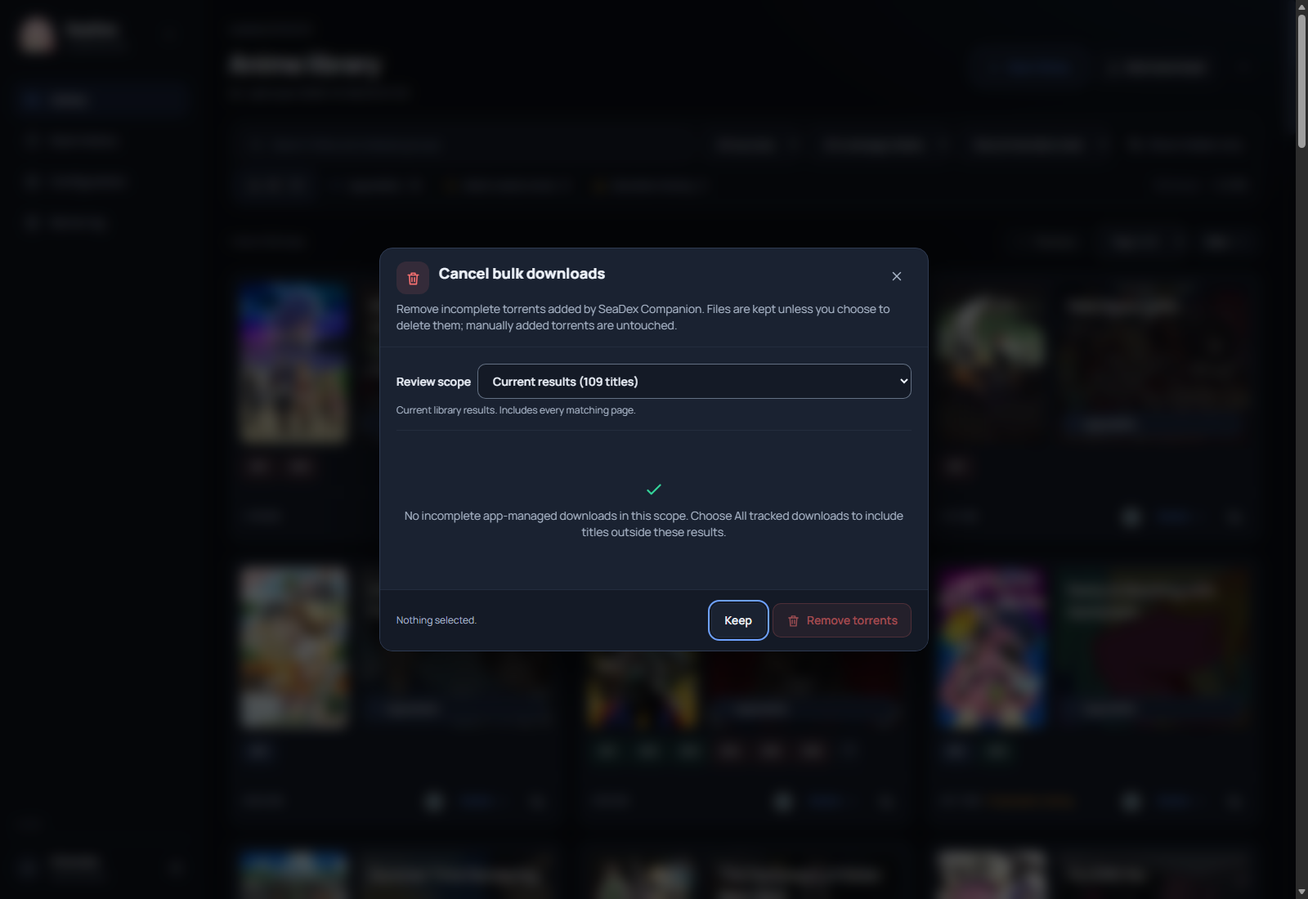
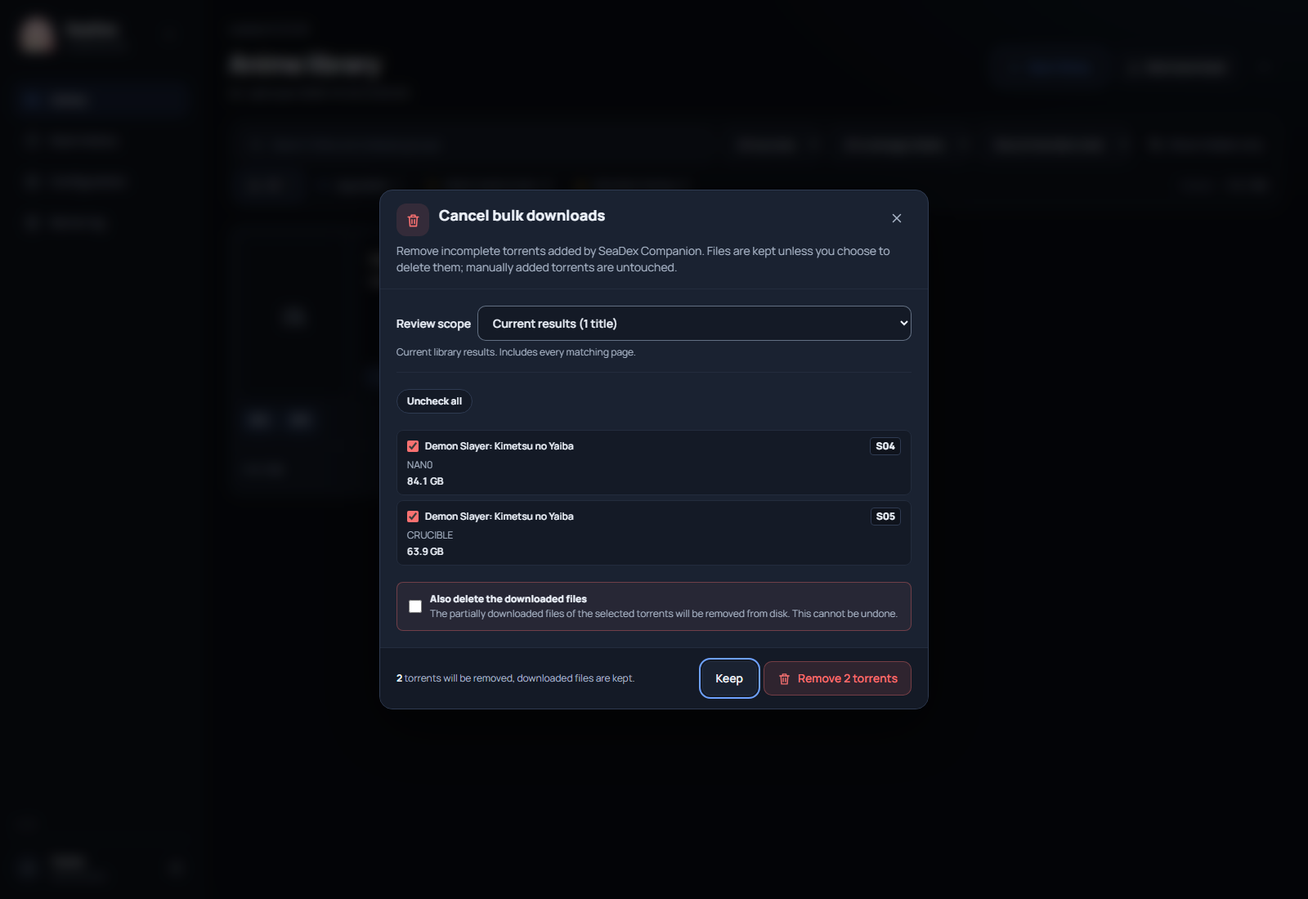
feat: align bulk operation reviews and release 1.9.0

diff --git a/frontend/src/components/BulkDownloadDialog.tsx b/frontend/src/components/BulkDownloadDialog.tsx
@@ -6,6 +6,7 @@ import Icon from './Icons'
 import * as api from '../api'
 import type { BulkDownloadTarget } from '../api'
 import Modal from './Modal'
+import { bulkDialog } from './bulk-dialog-styles'
 import { releaseIdentity } from '../../../shared/releases'
 import { estimateDownloads, type DownloadPreflight } from '../../../shared/download-estimate'
 
@@ -89,11 +90,11 @@ function hiddenKey(result: ResultItem): string {
 
 function ReleaseSummary({ release }: { release: Release }) {
   const tags = [...new Set([release.quality, ...(release.dual_audio ? ['Dual Audio'] : []), ...(release.tags || [])].filter(Boolean))]
-  return <span className="block min-w-0 text-xs text-muted wrap-anywhere"><strong className="font-semibold text-ink">{release.releaseGroup}</strong> · {release.tracker}{tags.length > 0 && ` · ${tags.join(' · ')}`}</span>
+  return <span className="block min-w-0 text-xs text-ink/75 wrap-anywhere"><strong className="font-semibold text-ink">{release.releaseGroup}</strong> · {release.tracker}{tags.length > 0 && ` · ${tags.join(' · ')}`}</span>
 }
 
 function OutcomeLabel({ status }: { status: 'success' | 'failure' | 'pending' | null }) {
-  return status ? <span className="basis-full text-xs font-semibold">{status === 'success' ? 'Added to qBittorrent' : status === 'failure' ? 'Could not be added — review the operation error details' : 'Waiting for qBittorrent'}</span> : null
+  return status ? <span className={cx('basis-full text-xs font-semibold', status === 'success' ? 'text-good' : status === 'failure' ? 'text-bad' : 'text-accent-bright')}>{status === 'success' ? 'Added to qBittorrent' : status === 'failure' ? 'Could not be added — review the operation error details' : 'Waiting for qBittorrent'}</span> : null
 }
 
 export default function BulkDownloadDialog({ open, results, scopeControl, hiddenKeys, busy, outcome, onConfirm, onClose }: Props) {
@@ -150,8 +151,10 @@ export default function BulkDownloadDialog({ open, results, scopeControl, hidden
   const checking = !currentPreflight && !checkError && !outcome
   const estimate = currentPreflight || estimateDownloads(selectedOptions.map(option => ({ release: option.release, category: '' })))
   const lowSpace = currentPreflight?.disk_space.some(check => check.sufficient === false)
+  const unverifiedSpace = Boolean(checkError || estimate.unknown_torrents || estimate.approximate_torrents || (currentPreflight && estimate.new_torrents > 0 && (!currentPreflight.disk_space.length || currentPreflight.disk_space.some(check => check.sufficient !== true))))
+  const diskTone = checking ? 'border-accent/35 bg-accent/6' : lowSpace ? 'border-bad/45 bg-bad/6' : unverifiedSpace ? 'border-warn/40 bg-warn/6' : estimate.new_torrents > 0 ? 'border-good/35 bg-good/6' : 'border-line bg-canvas-soft'
+  const diskTextTone = checking ? 'text-accent-bright' : lowSpace ? 'text-bad' : unverifiedSpace ? 'text-warn' : estimate.new_torrents > 0 ? 'text-good' : 'text-muted'
   const sizeText = estimate.unknown_torrents ? `${formatBytes(estimate.new_bytes) || '0 B'} + unknown` : estimate.new_bytes === 0 ? '0 B' : `${estimate.approximate_torrents ? '≈ ' : ''}${formatBytes(estimate.new_bytes)}`
-  const automaticCount = review.ready.filter((group) => group.options.length === 1 && !hiddenKeys.has(hiddenKey(group.result))).length
   const pendingChoices = review.choices.filter((group) => enabled[group.id] !== false && selected[group.id] === undefined).length
   const blockedSorted = [...review.blocked].sort((a, b) =>
     a.result.title.localeCompare(b.result.title, undefined, { sensitivity: 'base' }) ||
@@ -184,17 +187,17 @@ export default function BulkDownloadDialog({ open, results, scopeControl, hidden
 
   return (
     <Modal open={open} labelledBy="bulk-download-title" onClose={onClose}>
-      <section className="flex max-h-full w-full max-w-3xl flex-col overflow-hidden rounded-2xl border border-line-strong bg-panel-raised shadow-[0_24px_70px_rgba(0,0,0,.55)]" aria-busy={busy}>
-        <header className="bulk-download-header flex shrink-0 items-start gap-3 border-b border-line px-5 py-4">
+      <section className={cx(bulkDialog.shell, 'max-w-3xl')} aria-busy={busy}>
+        <header className={bulkDialog.header}>
           <span className="grid size-10 shrink-0 place-items-center rounded-xl bg-good/12 text-good"><Icon name="download" size={19}/></span>
           <div className="min-w-0 flex-1">
             <h2 id="bulk-download-title" className="m-0 text-lg font-extrabold">Review bulk downloads</h2>
-            <p className="mt-1 mb-0 text-sm text-muted">{outcome?.inflight ? 'Sending your fixed selection to qBittorrent. Closing this review keeps the batch running in the background.' : outcome ? 'Review the submitted selection and each outcome below. Operation Center shows the batch results and any error details.' : 'Choose a best release for each season or cour you want to upgrade.'}</p>
           </div>
-          <button type="button" className="grid touch-target size-9 cursor-pointer place-items-center rounded-lg text-muted hover:bg-panel hover:text-ink" onClick={onClose} aria-label={busy ? 'Continue batch in background' : 'Close'}><Icon name="close" size={18}/></button>
+          <button type="button" className={bulkDialog.closeButton} onClick={onClose} aria-label={busy ? 'Continue batch in background' : 'Close'}><Icon name="close" size={18}/></button>
+          <p className="m-0 basis-full text-sm text-muted">{outcome?.inflight ? 'Sending your fixed selection to qBittorrent. Closing this review keeps the batch running in the background.' : outcome ? 'Review the submitted selection and each outcome below. Operation Center shows the batch results and any error details.' : 'Choose a best release for each season or cour you want to upgrade.'}</p>
         </header>
 
-        <div className="app-scrollbar min-h-0 flex-1 space-y-4 overflow-y-auto p-5 max-[600px]:p-4">
+        <div className={bulkDialog.body}>
           {scopeControl}
           <div className="flex flex-wrap gap-2 text-xs font-bold">
             <button type="button" className={cx('touch-target cursor-pointer rounded-full border px-3 py-1.5 transition-colors', view === 'ready' ? 'border-good/60 bg-good/25 text-ink' : 'border-good/30 bg-good/10 text-ink hover:bg-good/18')} onClick={() => setView('ready')} aria-pressed={view === 'ready'}>{review.ready.length} eligible</button>
@@ -204,10 +207,6 @@ export default function BulkDownloadDialog({ open, results, scopeControl, hidden
 
           {view === 'ready' && (
             <section>
-              <h3 className="mb-2 text-sm font-bold text-ink">Eligible upgrades</h3>
-              {!outcome && <p className="mb-3 text-xs text-muted" role="status">{selections.length} ready to send{pendingChoices > 0 && ` · ${pendingChoices} need a release choice`}. Each selection covers a movie, season, or cour.</p>}
-              {!outcome && <details className="mb-3 text-xs text-muted"><summary className="touch-target w-fit cursor-pointer font-semibold text-accent-bright">How to choose between best releases</summary><p className="mt-2 mb-0 leading-relaxed">SeaDex marks these releases as best. Options may differ in release group, source, or audio. Compare their tags and notes; file size alone does not explain the recommendation.</p></details>}
-              {!outcome && automaticCount > 0 && <p className="m-0 mb-3 text-xs text-muted"><Icon name="check" size={14} className="mr-1.5 inline text-good"/>{automaticCount} selection{automaticCount === 1 ? '' : 's'} with a single public best option selected automatically.</p>}
               {readySorted.length ? (
                 <div className="space-y-1.5">
                   {readySorted.map((group) => {
@@ -220,19 +219,19 @@ export default function BulkDownloadDialog({ open, results, scopeControl, hidden
                       const delta = release.size && localSize ? release.size - localSize : null
                       const status = groupStatus(group)
                       return (
-                        <label key={group.id} className={cx('flex min-h-11 flex-wrap items-center gap-x-2 gap-y-1 rounded-lg border px-3 py-2 text-xs transition-colors', locked ? 'cursor-default' : 'cursor-pointer', status === 'success' && 'border-good/50 bg-good/8', status === 'failure' && 'border-bad/50 bg-bad/8', status === 'pending' && 'border-accent/45 bg-accent/8', !status && (enabled[group.id] !== false ? 'border-line bg-panel hover:border-line-strong' : 'border-line/60 bg-canvas-soft text-muted'))}>
-                          <input type="checkbox" disabled={locked} className="size-3.5 shrink-0 accent-accent" checked={enabled[group.id] !== false} onChange={(event) => setEnabled((current) => ({ ...current, [group.id]: event.target.checked }))} />
+                        <label key={group.id} className={cx(bulkDialog.row, locked ? 'cursor-default' : 'cursor-pointer', status === 'success' && 'border-good/50 bg-good/8', status === 'failure' && 'border-bad/50 bg-bad/8', status === 'pending' && 'border-accent/45 bg-accent/8', !status && (enabled[group.id] !== false ? bulkDialog.rowSelected : bulkDialog.rowUnchecked))}>
+                          <input type="checkbox" disabled={locked} className="size-3.5 shrink-0 accent-good" checked={enabled[group.id] !== false} onChange={(event) => setEnabled((current) => ({ ...current, [group.id]: event.target.checked }))} />
                           {status === 'success' && <Icon name="check" size={13} className="text-good"/>}
                           {status === 'failure' && <Icon name="alert" size={13} className="text-bad"/>}
                           {status === 'pending' && <span className="size-3 shrink-0 animate-spin rounded-full border-2 border-accent/30 border-t-accent"/>}
                           <span className={cx('font-semibold', status === 'success' ? 'text-good' : status === 'failure' ? 'text-bad' : status === 'pending' ? 'text-accent-bright' : 'text-ink')}>{group.result.title}</span>
-                          <span className="rounded border border-line-strong bg-canvas-soft px-1.5 py-0.5 text-xs font-extrabold text-ink">{seasonLabel(group.result)}{group.part ? ` · ${group.part}` : ''}</span>
+                          <span className={bulkDialog.seasonBadge}>{seasonLabel(group.result)}{group.part ? ` · ${group.part}` : ''}</span>
                           {isHidden && <span className="inline-flex items-center gap-1 rounded-full border border-warn/40 bg-warn/10 px-2 py-0.5 text-xs font-extrabold text-warn"><Icon name="eye-off" size={12}/>Hidden</span>}
                           <span className="ml-auto flex items-center gap-1.5 tabular-nums" title={`${release.releaseGroup} · ${release.tracker}`}>
-                            <span className="text-muted" title="Current local size">{formatBytes(localSize) || '—'}</span>
-                            <span className="text-muted-dim">→</span>
+                            <span className="text-ink/70" title="Current local size">{formatBytes(localSize) || '—'}</span>
+                            <span className="text-ink/60">→</span>
                             <span className="font-bold text-ink" title="Selected best release size">{formatBytes(release.size) || 'Unknown'}</span>
-                            {delta !== null && delta !== 0 && <span className="text-muted-dim">({delta > 0 ? '+' : '−'}{formatBytes(Math.abs(delta))})</span>}
+                            {delta !== null && delta !== 0 && <span className="text-ink/60">({delta > 0 ? '+' : '−'}{formatBytes(Math.abs(delta))})</span>}
                           </span>
                           <span className="basis-full"><ReleaseSummary release={release}/></span>
                           <OutcomeLabel status={status}/>
@@ -248,18 +247,18 @@ export default function BulkDownloadDialog({ open, results, scopeControl, hidden
                     const localSize = group.part ? (group.result.local_size_by_part?.[group.part] || 0) : group.result.local_size
                     const status = groupStatus(group)
                     return (
-                      <div key={group.id} className={cx('overflow-hidden rounded-lg border transition-colors', status === 'success' ? 'border-good/50 bg-good/8' : status === 'failure' ? 'border-bad/50 bg-bad/8' : status === 'pending' ? 'border-accent/45 bg-accent/8' : isPending ? 'border-warn/55 bg-warn/8' : 'border-line bg-panel')}>
+                      <div key={group.id} className={cx('overflow-hidden rounded-lg border transition-colors', status === 'success' ? 'border-good/50 bg-good/8' : status === 'failure' ? 'border-bad/50 bg-bad/8' : status === 'pending' ? 'border-accent/45 bg-accent/8' : isPending ? 'border-warn/55 bg-warn/8' : enabled[group.id] !== false ? bulkDialog.rowSelected : bulkDialog.rowUnchecked)}>
                         <div className="flex items-center gap-2 px-3 py-2">
-                          <label className="touch-target grid size-8 shrink-0 cursor-pointer place-items-center rounded-lg hover:bg-panel-raised"><input type="checkbox" disabled={locked} className="size-4 accent-accent" checked={enabled[group.id] !== false} onChange={(event) => setEnabled((current) => ({ ...current, [group.id]: event.target.checked }))} aria-label={`Include ${group.result.title} · ${seasonLabel(group.result)}${group.part ? ` · ${group.part}` : ''}`} /></label>
+                          <label className="touch-target grid size-8 shrink-0 cursor-pointer place-items-center rounded-lg hover:bg-panel-raised"><input type="checkbox" disabled={locked} className="size-4 accent-good" checked={enabled[group.id] !== false} onChange={(event) => setEnabled((current) => ({ ...current, [group.id]: event.target.checked }))} aria-label={`Include ${group.result.title} · ${seasonLabel(group.result)}${group.part ? ` · ${group.part}` : ''}`} /></label>
                           <button type="button" className="flex min-h-11 min-w-0 flex-1 cursor-pointer flex-wrap items-center gap-x-2 gap-y-1 text-left text-xs" onClick={() => setExpanded((current) => ({ ...current, [group.id]: !isExpanded }))} aria-expanded={isExpanded}>
                             {status === 'success' && <Icon name="check" size={13} className="text-good"/>}
                             {status === 'failure' && <Icon name="alert" size={13} className="text-bad"/>}
                             {status === 'pending' && <span className="size-3 shrink-0 animate-spin rounded-full border-2 border-accent/30 border-t-accent"/>}
                             <span className={cx('font-semibold', status === 'success' ? 'text-good' : status === 'failure' ? 'text-bad' : status === 'pending' ? 'text-accent-bright' : 'text-ink')}>{group.result.title}</span>
-                            <span className="rounded border border-line-strong bg-canvas-soft px-1.5 py-0.5 text-xs font-extrabold text-ink">{seasonLabel(group.result)}{group.part ? ` · ${group.part}` : ''}</span>
+                            <span className={bulkDialog.seasonBadge}>{seasonLabel(group.result)}{group.part ? ` · ${group.part}` : ''}</span>
                             {isHidden && <span className="inline-flex items-center gap-1 rounded-full border border-warn/40 bg-warn/10 px-2 py-0.5 text-xs font-extrabold text-warn"><Icon name="eye-off" size={12}/>Hidden</span>}
                             {chosen ? (
-                              <span className="inline-flex items-center gap-1 rounded-full border border-good/40 bg-good/10 px-2 py-0.5 text-xs font-extrabold text-good"><Icon name="check" size={12}/>Selected</span>
+                              <span className="inline-flex items-center gap-1 rounded-full border border-accent/40 bg-accent/10 px-2 py-0.5 text-xs font-extrabold text-accent-bright"><Icon name="check" size={12}/>Selected</span>
                             ) : (
                               <span className={cx('inline-flex items-center gap-1 rounded-full border px-2 py-0.5 text-xs font-extrabold', enabled[group.id] !== false ? 'border-warn/45 bg-warn/15 text-warn' : 'border-line-strong bg-canvas-soft text-muted')}><Icon name="alert" size={12}/>Choose 1 of {group.options.length}</span>
                             )}
@@ -268,7 +267,7 @@ export default function BulkDownloadDialog({ open, results, scopeControl, hidden
                             <span className="ml-auto flex items-center gap-1.5">
                               {chosenOption && (
                                 <span className="flex items-center gap-1.5 tabular-nums" title={`${chosenOption.release.releaseGroup} · ${chosenOption.release.tracker}`}>
-                                  {localSize ? <><span className="text-muted" title="Current local size">{formatBytes(localSize) || '—'}</span><span className="text-muted-dim">→</span></> : null}
+                                  {localSize ? <><span className="text-ink/70" title="Current local size">{formatBytes(localSize) || '—'}</span><span className="text-ink/60">→</span></> : null}
                                   <span className="font-bold text-ink">{formatBytes(chosenOption.release.size) || 'Unknown'}</span>
                                 </span>
                               )}
@@ -292,7 +291,7 @@ export default function BulkDownloadDialog({ open, results, scopeControl, hidden
                                 )
                               })}
                             </div>
-                            <div className="mt-2.5 whitespace-pre-line break-words text-xs leading-relaxed text-muted"><span className="font-bold text-ink">Note:</span> {group.result.notes_by_part?.[group.part] || (group.result.notes && group.result.notes !== '-' ? group.result.notes : 'No release note provided.')}</div>
+                            <div className="mt-2.5 whitespace-pre-line break-words text-xs leading-relaxed text-ink/75"><span className="font-bold text-ink">Note:</span> {group.result.notes_by_part?.[group.part] || (group.result.notes && group.result.notes !== '-' ? group.result.notes : 'No release note provided.')}</div>
                           </div>
                         )}
                       </div>
@@ -305,26 +304,31 @@ export default function BulkDownloadDialog({ open, results, scopeControl, hidden
 
           {view === 'ready' && review.ready.length > 0 && <>
             <dl className="m-0 grid grid-cols-2 gap-x-4 gap-y-2 border-y border-line py-3 sm:grid-cols-5">
-              <div><dt className="text-xs text-muted">Selected releases</dt><dd className="m-0 text-sm font-bold tabular-nums">{selections.length}</dd></div>
+              <div><dt className="text-xs text-muted">Selected releases</dt><dd className="m-0 text-sm font-bold text-accent-bright tabular-nums">{selections.length}</dd></div>
               <div><dt className="text-xs text-muted">New torrents</dt><dd className="m-0 text-sm font-bold tabular-nums">{estimate.new_torrents}</dd></div>
-              <div><dt className="text-xs text-muted">New download size</dt><dd className="m-0 text-sm font-bold tabular-nums" data-testid="bulk-download-size">{checking ? 'Checking…' : sizeText}</dd></div>
+              <div><dt className="text-xs text-muted">New download size</dt><dd className={cx('m-0 text-sm font-bold tabular-nums', estimate.unknown_torrents ? 'text-warn' : 'text-accent-bright')} data-testid="bulk-download-size">{checking ? 'Checking…' : sizeText}</dd></div>
               <div><dt className="text-xs text-muted">File scope</dt><dd className="m-0 text-sm font-bold tabular-nums">{estimate.selected_file_count > 0 ? `${estimate.selected_file_count} file${estimate.selected_file_count === 1 ? '' : 's'}${estimate.whole_torrents ? ` + ${estimate.whole_torrents} whole` : ''}` : `${estimate.whole_torrents} whole torrent${estimate.whole_torrents === 1 ? '' : 's'}`}</dd></div>
               <div className="col-span-2 flex items-baseline gap-2 sm:col-span-1 sm:block"><dt className="text-xs text-muted">Already in qBittorrent</dt><dd className={cx('m-0 text-sm font-bold tabular-nums', checkError ? 'text-warn' : 'text-ink')}>{checking || checkError ? 'Unknown' : estimate.existing_torrents}</dd></div>
             </dl>
-            {!outcome && <section ref={diskRef} className="space-y-2 rounded-xl border border-line bg-canvas-soft p-3 text-xs" aria-label="Download disk space" aria-live="polite">
-              <h3 className="m-0 text-xs font-bold">Disk space</h3>
-              {checking && <p className="m-0 text-muted">Checking qBittorrent download paths and existing torrents…</p>}
+            {!outcome && <section ref={diskRef} className={cx('space-y-2 rounded-xl border p-3 text-xs transition-colors', diskTone)} aria-label="Download disk space" aria-live="polite">
+              <div className="flex flex-wrap items-center justify-between gap-2">
+                <h3 className="m-0 text-xs font-bold">Disk space</h3>
+                <span className={cx('inline-flex items-center gap-1.5 font-semibold', diskTextTone)}>
+                  {checking ? <span className="size-3 animate-spin rounded-full border-2 border-accent/30 border-t-accent"/> : <Icon name={lowSpace || unverifiedSpace ? 'alert' : 'check'} size={13}/>}
+                  {checking ? 'Checking…' : lowSpace ? 'Low space' : unverifiedSpace ? 'Unverified' : estimate.new_torrents > 0 ? 'Space available' : 'No new torrents'}
+                </span>
+              </div>
+              {checking && <p className="m-0 text-ink/80">Checking qBittorrent download paths and existing torrents…</p>}
               {checkError && <p className="m-0 text-warn">Check unavailable: {checkError}. Existing torrents and available space could not be verified.</p>}
-              {currentPreflight?.disk_space.map((check, index) => <div key={index} className={cx('break-words', check.sufficient === false ? 'text-bad' : check.sufficient === true ? 'text-muted' : 'text-warn')}>
+              {currentPreflight?.disk_space.map((check, index) => <div key={index} className={cx('break-words', check.sufficient === false ? 'text-bad' : check.sufficient === true ? 'text-ink/80' : 'text-warn')}>
                 <span className="font-bold">{check.path || 'Download path unavailable'}</span>: {check.free_bytes === null ? 'Free space unavailable' : `${formatBytes(check.free_bytes) || '0 B'} free`} · {formatBytes(check.required_bytes) || '0 B'} needed{check.unknown_torrents ? ' + unverified sizes' : ''}
                 {check.sufficient === false && <span className="block font-bold">Not enough space for these downloads.</span>}
                 {check.reason && <span className="block">{check.reason}</span>}
               </div>)}
               {currentPreflight && !estimate.new_torrents && <p className="m-0 text-muted">No new torrents to add. Existing torrents are kept unchanged.</p>}
               {(estimate.unknown_torrents > 0 || estimate.approximate_torrents > 0) && <p className="m-0 text-warn">Some saved releases lack file sizes. Run a new scan for a more accurate estimate.</p>}
-              <details className="text-muted"><summary className="min-h-6 cursor-pointer font-bold text-ink">Estimate details and limitations</summary><p className="mt-2 mb-0 leading-relaxed">Shared torrents and files are counted once. Existing torrents are skipped. Space is a snapshot; other downloads, torrent overhead, and library imports may need additional room.</p></details>
               <button type="button" className="touch-target cursor-pointer rounded-lg px-2 py-1 font-bold text-accent-bright hover:bg-accent/10 disabled:opacity-50" disabled={checking || busy} onClick={() => setRetry(current => current + 1)}>Refresh check</button>
-              {lowSpace && <label className="flex min-h-11 cursor-pointer items-center gap-2 rounded-lg border border-warn/30 bg-warn/8 p-3 text-warn"><input type="checkbox" checked={acceptSpaceWarning} onChange={event => setAcceptSpaceWarning(event.target.checked)}/>Continue despite the disk space warning</label>}
+              {lowSpace && <label className="flex min-h-11 cursor-pointer items-center gap-2 rounded-lg border border-warn/40 bg-warn/8 p-3 text-warn"><input type="checkbox" className="size-4 shrink-0 accent-warn" checked={acceptSpaceWarning} onChange={event => setAcceptSpaceWarning(event.target.checked)}/>Continue despite the disk space warning</label>}
             </section>}
           </>}
           {view === 'unavailable' && (
@@ -347,18 +351,18 @@ export default function BulkDownloadDialog({ open, results, scopeControl, hidden
           )}
         </div>
 
-        <footer className="bulk-download-footer flex flex-wrap items-center justify-between gap-3 border-t border-line bg-panel px-5 py-4">
+        <footer className={bulkDialog.footer}>
           <span className="flex flex-wrap items-center gap-x-2 gap-y-1 text-xs text-muted">
             {!outcome && pendingChoices > 0 && <span className="inline-flex items-center gap-1 font-bold text-warn"><Icon name="alert" size={13}/>Resolve {pendingChoices} release choice{pendingChoices === 1 ? '' : 's'} first</span>}
             {!outcome && lowSpace && !acceptSpaceWarning && <button type="button" className="touch-target cursor-pointer rounded-lg px-2 py-1 font-bold text-warn underline hover:bg-warn/10" onClick={() => diskRef.current?.querySelector<HTMLInputElement>('input[type="checkbox"]')?.focus()}>Review disk space warning</button>}
           </span>
-          <div className="ml-auto flex min-w-0 max-w-full flex-wrap justify-end gap-2 [&_button]:max-w-full [&_button]:justify-center [&_button]:wrap-anywhere max-[600px]:[&_button]:px-3">
+          <div className={bulkDialog.footerActions}>
             {outcome?.inflight ? (
               <div className="flex min-w-0 max-w-full flex-wrap items-center gap-2"><span className="text-xs text-muted" role="status">Sending… {inflightProgress ? `${inflightProgress.settled}/${inflightProgress.total} torrents` : ''}</span><button type="button" className={cx(buttonBase, 'border-accent/35 bg-accent/12 text-accent-bright')} onClick={onClose}>Continue in background</button></div>
             ) : (
               <>
-                <button ref={cancelRef} type="button" className={cx(buttonBase, 'border-line bg-panel-raised text-ink hover:text-ink')} onClick={onClose} disabled={busy}>{outcome ? 'Close' : 'Cancel'}</button>
-                {!outcome && <button type="button" className={cx(buttonBase, 'border-good/35 bg-good/12 text-good hover:bg-good/20')} onClick={() => onConfirm(selections)} disabled={busy || checking || selections.length === 0 || pendingChoices > 0 || estimate.new_torrents === 0 || Boolean(lowSpace && !acceptSpaceWarning)}>{busy ? <span className="size-4 animate-spin rounded-full border-2 border-good/35 border-t-good"/> : <Icon name="download" size={17}/>}Download {estimate.new_torrents} torrent{estimate.new_torrents === 1 ? '' : 's'}</button>}
+                <button ref={cancelRef} type="button" className={bulkDialog.neutralButton} onClick={onClose} disabled={busy}>{outcome ? 'Close' : 'Cancel'}</button>
+                {!outcome && <button type="button" className={bulkDialog.downloadButton} onClick={() => onConfirm(selections)} disabled={busy || checking || selections.length === 0 || pendingChoices > 0 || estimate.new_torrents === 0 || Boolean(lowSpace && !acceptSpaceWarning)}>{busy ? <span className="size-4 animate-spin rounded-full border-2 border-good/35 border-t-good"/> : <Icon name="download" size={17}/>}Download {estimate.new_torrents} torrent{estimate.new_torrents === 1 ? '' : 's'}</button>}
               </>
             )}
           </div>

diff --git a/frontend/src/components/BulkCancelDialog.tsx b/frontend/src/components/BulkCancelDialog.tsx
@@ -1,9 +1,10 @@
 import { ReactNode, useEffect, useRef, useState } from 'react'
 import { formatBytes } from '../utils'
-import { buttonBase, cx } from '../styles'
+import { cx } from '../styles'
 import Icon from './Icons'
 import { getCancelableBulkDownloads, BulkDownloadTarget, CancelableDownload } from '../api'
 import Modal from './Modal'
+import { bulkDialog } from './bulk-dialog-styles'
 
 interface Props {
   open: boolean
@@ -58,17 +59,17 @@ export default function BulkCancelDialog({ open, busy, scopeControl, resultKeys,
 
   return (
     <Modal open={open} labelledBy="bulk-cancel-title" busy={busy} onClose={onClose}>
-      <section className="flex max-h-full w-full max-w-2xl flex-col overflow-hidden rounded-2xl border border-line-strong bg-panel-raised shadow-[0_24px_70px_rgba(0,0,0,.55)]" aria-busy={busy || loading}>
-        <header className="flex flex-wrap items-start gap-x-3 gap-y-2 border-b border-line px-5 py-4">
+      <section className={cx(bulkDialog.shell, 'max-w-2xl')} aria-busy={busy || loading}>
+        <header className={bulkDialog.header}>
           <span className="grid size-10 shrink-0 place-items-center rounded-xl bg-bad/12 text-bad"><Icon name="trash" size={19}/></span>
           <div className="min-w-0 flex-1">
             <h2 id="bulk-cancel-title" className="m-0 text-lg font-extrabold">Cancel bulk downloads</h2>
           </div>
-          <button type="button" className="grid touch-target size-9 cursor-pointer place-items-center rounded-lg text-muted hover:bg-panel hover:text-ink" onClick={onClose} disabled={busy} aria-label="Close"><Icon name="close" size={18}/></button>
+          <button type="button" className={bulkDialog.closeButton} onClick={onClose} disabled={busy} aria-label="Close"><Icon name="close" size={18}/></button>
           <p className="m-0 basis-full text-sm text-muted">Remove incomplete torrents added by SeaDex Companion. Files are kept unless you choose to delete them; manually added torrents are untouched.</p>
         </header>
 
-        <div className="app-scrollbar min-h-0 flex-1 space-y-5 overflow-y-auto p-5">
+        <div className={bulkDialog.body}>
           {scopeControl}
           {loading ? (
             <div className="flex items-center justify-center gap-2 py-10 text-sm text-muted"><span className="size-4 animate-spin rounded-full border-2 border-bad/35 border-t-bad"/>Loading active downloads…</div>
@@ -83,10 +84,10 @@ export default function BulkCancelDialog({ open, busy, scopeControl, resultKeys,
                 {downloads.map((item) => {
                   const id = `${item.key}\0${item.release}`
                   return (
-                    <label key={id} className={cx('flex min-h-11 cursor-pointer flex-wrap items-center gap-x-2 gap-y-1 rounded-lg border px-3 py-2 text-xs transition-colors', enabled[id] !== false ? 'border-line bg-panel hover:border-line-strong' : 'border-line/60 bg-canvas-soft text-muted')}>
+                    <label key={id} className={cx(bulkDialog.row, 'cursor-pointer', enabled[id] !== false ? bulkDialog.rowSelected : bulkDialog.rowUnchecked)}>
                       <input type="checkbox" disabled={busy} className="size-3.5 shrink-0 accent-bad" checked={enabled[id] !== false} onChange={(event) => setEnabled((current) => ({ ...current, [id]: event.target.checked }))} />
                       <span className="min-w-0 flex-1 font-semibold text-ink wrap-anywhere">{item.title}</span>
-                      <span className="rounded border border-line-strong bg-canvas-soft px-1.5 py-0.5 text-xs font-extrabold text-ink">{item.season == null ? 'Movie' : `S${String(item.season).padStart(2, '0')}`}{item.part ? ` · ${item.part}` : ''}</span>
+                      <span className={bulkDialog.seasonBadge}>{item.season == null ? 'Movie' : `S${String(item.season).padStart(2, '0')}`}{item.part ? ` · ${item.part}` : ''}</span>
                       <span className="flex w-full min-w-0 flex-wrap items-center gap-x-3 gap-y-1 tabular-nums" title={`${item.release_group} · ${item.tracker}`}>
                         <span className="min-w-0 basis-full text-muted wrap-anywhere" title="Release group">{item.release_group}</span>
                         <span className="font-semibold text-ink">{formatBytes(item.size) || 'Unknown'}</span>
@@ -112,13 +113,13 @@ export default function BulkCancelDialog({ open, busy, scopeControl, resultKeys,
           )}
         </div>
 
-        <footer className="flex flex-wrap items-center justify-between gap-3 border-t border-line bg-panel px-5 py-4">
+        <footer className={bulkDialog.footer}>
           <span className="flex flex-wrap items-center gap-x-2 gap-y-1 text-xs text-muted">
             {selectedTorrents > 0 ? <span><span className="font-bold text-ink">{selectedTorrents}</span> torrent{selectedTorrents === 1 ? '' : 's'} will be removed{deleteFiles ? ' and their downloaded files will be deleted' : ', downloaded files are kept'}.</span> : <span>Nothing selected.</span>}
           </span>
-          <div className="flex gap-2">
-            <button ref={cancelRef} type="button" className={cx(buttonBase, 'border-line bg-panel-raised text-ink hover:text-ink')} onClick={onClose} disabled={busy}>Keep</button>
-            <button type="button" className={cx(buttonBase, 'border-bad/35 bg-bad/12 text-bad hover:bg-bad/20')} onClick={() => onConfirm(selections, deleteFiles)} disabled={busy || selections.length === 0}>{busy ? <span className="size-4 animate-spin rounded-full border-2 border-bad/35 border-t-bad"/> : <Icon name="trash" size={17}/>}Remove {selectedTorrents || ''} torrent{selectedTorrents === 1 ? '' : 's'}</button>
+          <div className={bulkDialog.footerActions}>
+            <button ref={cancelRef} type="button" className={bulkDialog.neutralButton} onClick={onClose} disabled={busy}>Keep</button>
+            <button type="button" className={bulkDialog.removeButton} onClick={() => onConfirm(selections, deleteFiles)} disabled={busy || selections.length === 0}>{busy ? <span className="size-4 animate-spin rounded-full border-2 border-bad/35 border-t-bad"/> : <Icon name="trash" size={17}/>}Remove {selectedTorrents || ''} torrent{selectedTorrents === 1 ? '' : 's'}</button>
           </div>
         </footer>
       </section>

diff --git a/frontend/src/components/bulk-dialog-styles.ts b/frontend/src/components/bulk-dialog-styles.ts
@@ -1,0 +1,18 @@
+import { buttonBase } from '../styles'
+
+// Both bulk reviews share structure; action and outcome colors retain their meaning.
+export const bulkDialog = {
+  shell: 'flex max-h-full w-full flex-col overflow-hidden rounded-2xl border border-line-strong bg-panel-raised shadow-[0_24px_70px_rgba(0,0,0,.55)]',
+  header: 'bulk-dialog-header flex shrink-0 flex-wrap items-start gap-x-3 gap-y-2 border-b border-line px-5 py-4',
+  body: 'app-scrollbar min-h-0 flex-1 space-y-5 overflow-y-auto p-5 max-[600px]:p-4',
+  footer: 'bulk-dialog-footer flex shrink-0 flex-wrap items-center justify-between gap-3 border-t border-line bg-panel px-5 py-4',
+  footerActions: 'ml-auto flex min-w-0 max-w-full flex-wrap justify-end gap-2 [&_button]:max-w-full [&_button]:justify-center [&_button]:wrap-anywhere max-[600px]:[&_button]:px-3',
+  closeButton: 'grid touch-target size-9 cursor-pointer place-items-center rounded-lg text-muted hover:bg-panel hover:text-ink',
+  row: 'flex min-h-11 flex-wrap items-center gap-x-2 gap-y-1 rounded-lg border px-3 py-2 text-xs transition-colors',
+  rowSelected: 'border-line bg-panel hover:border-line-strong',
+  rowUnchecked: 'border-line/60 bg-canvas-soft text-muted',
+  seasonBadge: 'rounded border border-line-strong bg-canvas-soft px-1.5 py-0.5 text-xs font-extrabold text-ink',
+  neutralButton: `${buttonBase} border-line bg-panel-raised text-ink enabled:hover:text-ink`,
+  downloadButton: `${buttonBase} border-good/35 bg-good/12 text-good enabled:hover:bg-good/20`,
+  removeButton: `${buttonBase} border-bad/35 bg-bad/12 text-bad enabled:hover:bg-bad/20`,
+}

diff --git a/frontend/src/components/BulkScopeSelector.tsx b/frontend/src/components/BulkScopeSelector.tsx
@@ -2,7 +2,7 @@ import { control, cx } from '../styles'
 
 export type BulkScope = 'filtered' | 'all'
 
-export default function BulkScopeSelector({ value, onChange, filteredCount, allCount, description, allDescription, allLabel, disabled = false }: {
+export default function BulkScopeSelector({ value, onChange, filteredCount, allCount, description, allDescription, allLabel, showDescription = true, disabled = false }: {
   value: BulkScope
   onChange: (value: BulkScope) => void
   filteredCount: number
@@ -10,6 +10,7 @@ export default function BulkScopeSelector({ value, onChange, filteredCount, allC
   description: string
   allDescription?: string
   allLabel?: string
+  showDescription?: boolean
   disabled?: boolean
 }) {
   return <div className="space-y-1.5 border-b border-line pb-4">
@@ -20,6 +21,6 @@ export default function BulkScopeSelector({ value, onChange, filteredCount, allC
         <option value="all">{allLabel || `Entire library (${allCount} ${allCount === 1 ? 'title' : 'titles'})`}</option>
       </select>
     </label>
-    <p className="m-0 text-xs text-muted">{value === 'filtered' ? `${description}. Includes every matching page.` : allDescription || 'All library titles, regardless of your search, source, or status filters. Hidden titles start unchecked.'}</p>
+    {showDescription && <p className="m-0 text-xs text-muted">{value === 'filtered' ? `${description}. Includes every matching page.` : allDescription || 'All library titles, regardless of your search, source, or status filters. Hidden titles start unchecked.'}</p>}
   </div>
 }

diff --git a/frontend/src/components/AnimeTab.tsx b/frontend/src/components/AnimeTab.tsx
@@ -212,7 +212,7 @@ export default function AnimeTab({ active, openResultKey, onResultOpened, bulkOp
     setBulkOutcome(null)
     setBulkConfirm(action)
   }
-  const scopeControl = <BulkScopeSelector value={bulkScope} onChange={setBulkScope} filteredCount={bulkReview ? groupResults(bulkReview.filtered).length : 0} allCount={bulkReview ? groupResults(bulkReview.all).length : 0} description={bulkReview?.description || 'Current library results'} allLabel={bulkConfirm === 'cancel' ? 'All tracked downloads' : undefined} allDescription={bulkConfirm === 'cancel' ? 'All incomplete downloads tracked by SeaDex Companion, regardless of library filters.' : undefined} disabled={bulkBusy !== null || Boolean(bulkOutcome)}/>
+  const scopeControl = <BulkScopeSelector value={bulkScope} onChange={setBulkScope} filteredCount={bulkReview ? groupResults(bulkReview.filtered).length : 0} allCount={bulkReview ? groupResults(bulkReview.all).length : 0} description={bulkReview?.description || 'Current library results'} showDescription={bulkConfirm === 'cancel'} allLabel={bulkConfirm === 'cancel' ? 'All tracked downloads' : undefined} allDescription={bulkConfirm === 'cancel' ? 'All incomplete downloads tracked by SeaDex Companion, regardless of library filters.' : undefined} disabled={bulkBusy !== null || Boolean(bulkOutcome)}/>
 
   const describeBulkFailures = (failures: api.BulkDownloadFailure[]): string => {
     const shown = failures.slice(0, 3).map((failure) => {

diff --git a/frontend/src/index.css b/frontend/src/index.css
@@ -292,15 +292,16 @@
   .library-more-actions { flex: 0 0 44px; }
   .connection-status:not([role]) { display: none; }
   .library-more-actions > summary::-webkit-details-marker { display: none; }
-  .bulk-download-footer { padding-inline: 12px; }
+  .bulk-dialog-footer { padding-inline: 12px; }
   .configuration-footer { padding-top: .5rem; }
   .modal-shell > section > header { max-height: 40dvh; overflow-y: auto; padding-inline: clamp(12px, 5vw, 20px); }
   .modal-shell > section > header { flex-wrap: wrap; }
   .modal-shell > section > header > div { flex: 1 1 12ch; }
   .modal-shell > section > header h2 { overflow-wrap: normal; word-break: normal; }
-  .modal-shell > section > .bulk-download-header > span { width: 44px; height: 44px; }
-  .modal-shell > section > .bulk-download-header > button { order: 1; margin-left: auto; width: 44px; height: 44px; }
-  .modal-shell > section > .bulk-download-header > div { order: 2; flex-basis: 100%; }
+  .modal-shell > section > .bulk-dialog-header > span { width: 44px; height: 44px; }
+  .modal-shell > section > .bulk-dialog-header > button { order: 1; margin-left: auto; width: 44px; height: 44px; }
+  .modal-shell > section > .bulk-dialog-header > div { order: 2; flex-basis: 100%; }
+  .modal-shell > section > .bulk-dialog-header > p { order: 3; }
 }
 
 @media (max-height: 600px) {

diff --git a/docs/releases/v1.9.0.md b/docs/releases/v1.9.0.md
@@ -1,0 +1,20 @@
+# SeaDex Companion 1.9
+
+Bulk download and cancellation reviews now share consistent headers, spacing, list rows, season badges, and responsive action controls. The installed version appears as **v1.9** in the sidebar and mobile header.
+
+## Changes
+
+- Simplify bulk download review controls and keep release choices, selected-file scope, and download estimates visible.
+- Use softly tinted green download actions and red cancellation actions with shared dialog styling.
+- Label disk-check states as checking, space available, low space, or unverified, with supporting icons and status colors.
+- Retain per-release outcomes, immutable submitted selections, background batch handling, and release-identity validation.
+- Preserve disk-space acknowledgement, hidden-title defaults, filtered and full-library scopes, and file-preserving cancellation defaults.
+- Refresh the README screenshots for bulk download and cancellation reviews.
+
+## Validation
+
+- All 116 automated tests passed.
+- Frontend TypeScript and production build passed.
+- Desktop and mobile browser workflows passed at 320/390/900/1440px widths, including version labels, bulk review, disk warnings, release choices, background batches, cancellation, and keyboard focus.
+
+No data migration is required.

diff --git a/README.md b/README.md
@@ -150,11 +150,11 @@ For remote access, prefer a private VPN. If you use a reverse proxy, require HTT
 
 ### Bulk download review
 
-<img width="100%" alt="Bulk download review showing selected releases, torrent count, file scope, and size summary" src="docs/screenshots/bulk-download-review.png" />
+<img width="100%" alt="Bulk download review showing selected season upgrades, download size, and available disk space" src="docs/screenshots/bulk-download-review.png" />
 
 ### Bulk cancellation
 
-<img width="100%" alt="Bulk cancellation review showing no incomplete app-managed downloads" src="docs/screenshots/bulk-cancellation.png" />
+<img width="100%" alt="Bulk cancellation review showing selected app-managed torrents and the optional file-deletion warning" src="docs/screenshots/bulk-cancellation.png" />
 
 
 ### Scan history
